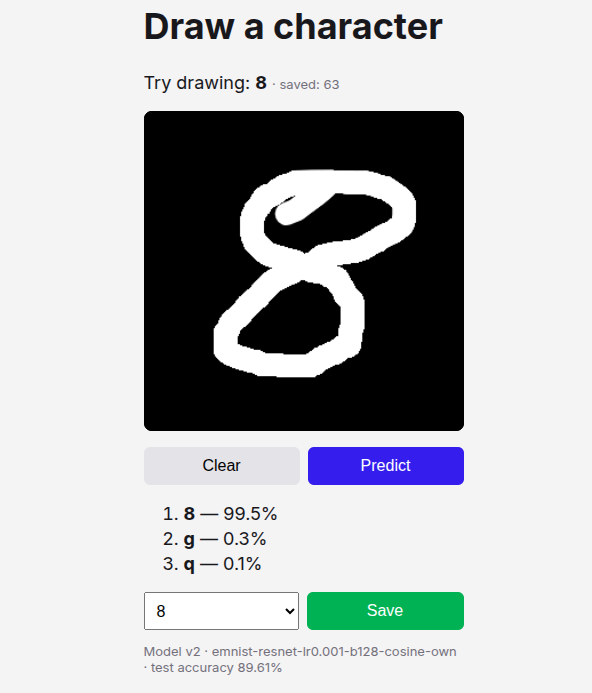
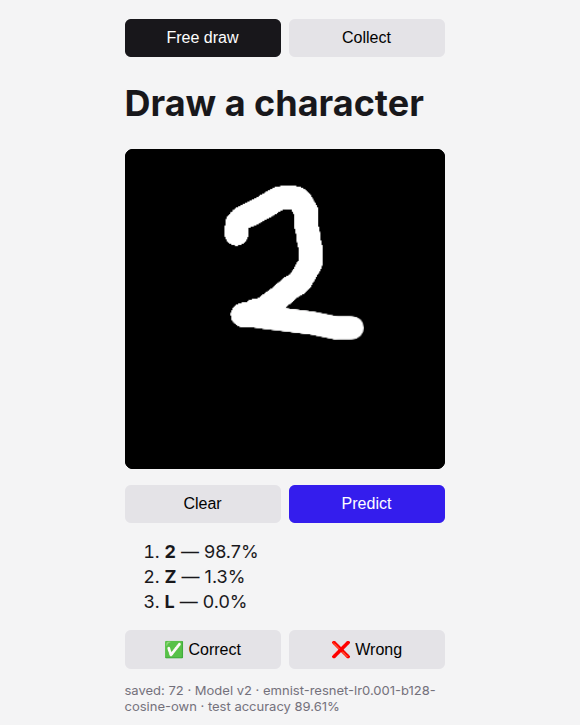
docs: rename to handwriting-mlops and update screenshot

Changed region(s): [[0.2172, 0.0, 0.8069, 1.0], [0.3414, 0.2424, 0.7138, 0.5455]]

diff --git a/README.md b/README.md
@@ -1,10 +1,10 @@
-# digit-classifier
+# handwriting-mlops
 
-[![ci](https://github.com/m3h3d1/digit-classifier/actions/workflows/ci.yml/badge.svg)](https://github.com/m3h3d1/digit-classifier/actions/workflows/ci.yml)
+[![ci](https://github.com/m3h3d1/handwriting-mlops/actions/workflows/ci.yml/badge.svg)](https://github.com/m3h3d1/handwriting-mlops/actions/workflows/ci.yml)
 
 Draw a digit or letter in the browser; a model predicts it.
 
-<img src="docs/screenshot.png" alt="Drawing page predicting 8 with 99.5% confidence" width="360">
+<img src="docs/screenshot.png" alt="Free draw mode predicting 2 with 98.7% confidence, with Correct and Wrong feedback buttons" width="360">
 
 ## How it works
 
